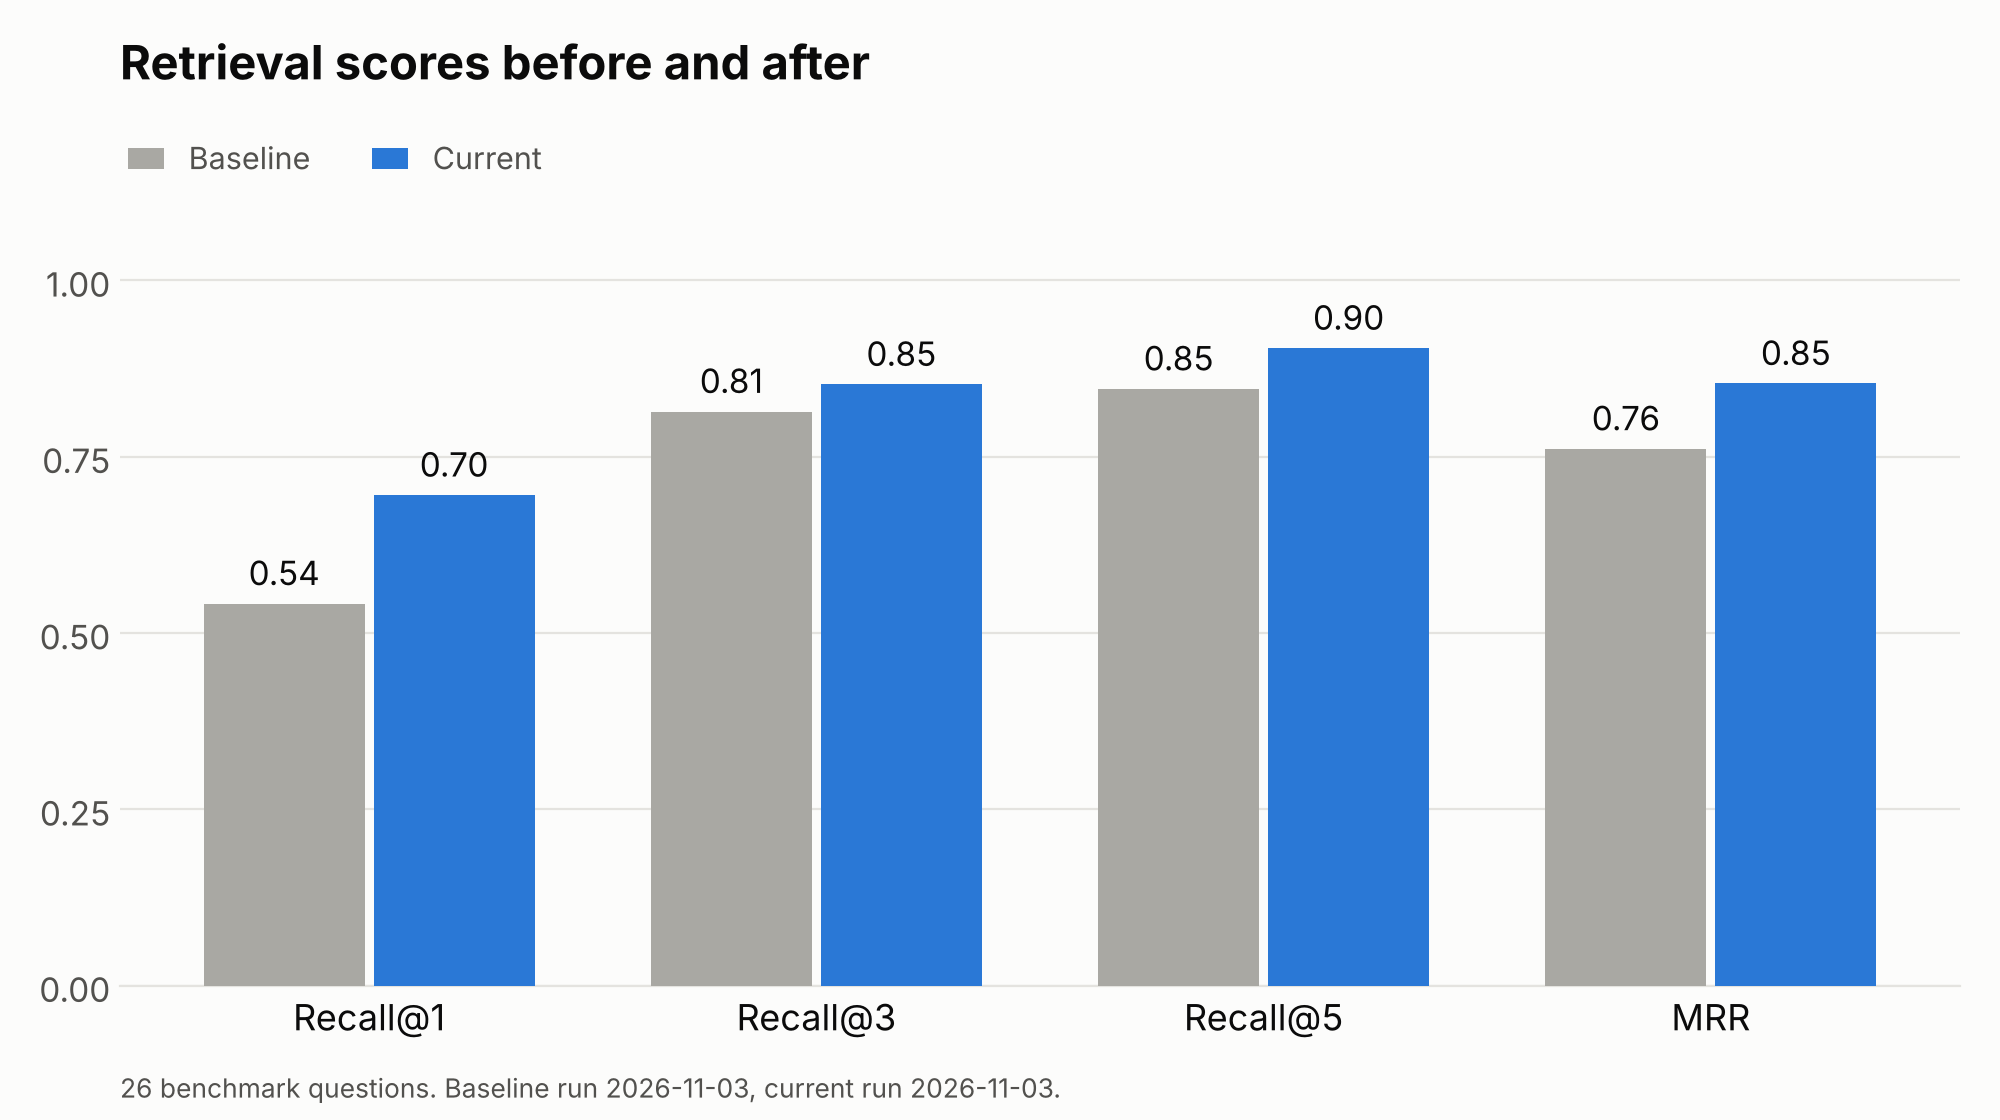
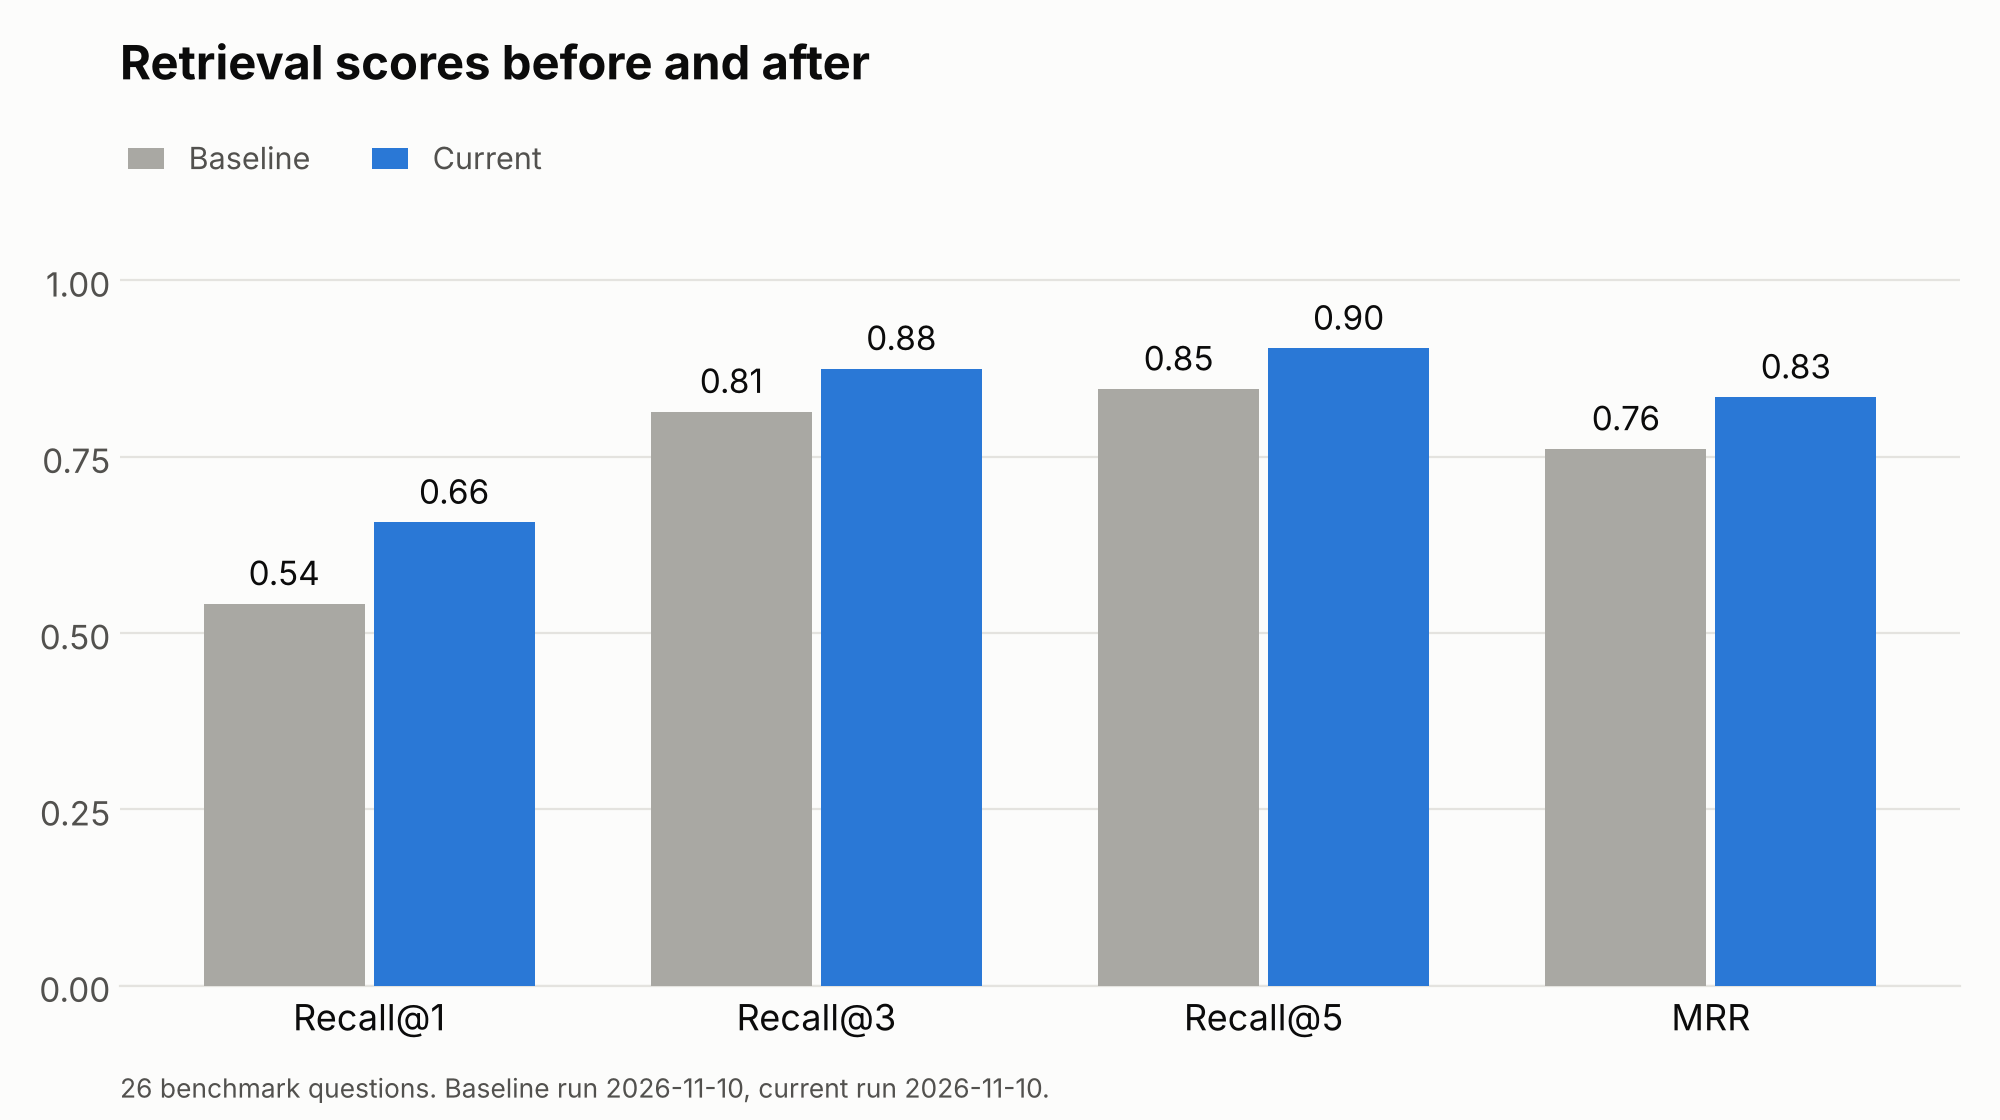
Record parser change and rerun retrieval eval
Chunks 5,940 to 6,379, garbled drops 116 to 47, references found in 50 of 50. MRR 0.854 to 0.835 and R@3 0.853 to 0.875, within the noise band; papers reaching the LLM unchanged.

diff --git a/README.md b/README.md
@@ -150,7 +150,7 @@ Baseline stack, per the Challenge Advisor's recommended tooling:
 
 | Stage | Choice |
 |---|---|
-| PDF parsing | `pypdf`, with `pypdfium2` for pages where pypdf loses the word spacing |
+| PDF parsing | `pypdfium2`, with `pypdf` for pages pypdfium2 cannot read (pypdf alone joins some words, e.g. "agentsdo") |
 | Chunking | 120-word chunks, 20-word overlap, near-duplicates removed |
 | Embeddings | `sentence-transformers/all-MiniLM-L6-v2`, centered, with a CSLS hub correction |
 | Vector store | `ChromaDB` |
@@ -166,14 +166,16 @@ The reasons for each retrieval choice, and the alternatives that were tested and
 
 ### Ranking and relevance (Nov, Issue #15)
 
-Same corpus, benchmark and embedding model as the Oct 27 baseline below (5,940 chunks after the parser fix).
+Same corpus, benchmark and embedding model as the Oct 27 baseline below. Nov 3 is the Issue #15
+retrieval work on 5,940 chunks. Nov 10 is the same retrieval on 6,379 chunks from the fixed parser
+(see "Parser" below).
 
-| Metric | Oct 27 baseline | Now |
-|---|---|---|
-| Recall@1 | 0.542 | 0.696 |
-| Recall@3 | 0.814 | 0.853 |
-| Recall@5 | 0.846 | 0.904 |
-| MRR | 0.761 | 0.854 |
+| Metric | Oct 27 baseline | Nov 3 | Nov 10 |
+|---|---|---|---|
+| Recall@1 | 0.542 | 0.696 | 0.657 |
+| Recall@3 | 0.814 | 0.853 | 0.875 |
+| Recall@5 | 0.846 | 0.904 | 0.904 |
+| MRR | 0.761 | 0.854 | 0.835 |
 
 ![Retrieval scores before and after](docs/figures/before_after.png)
 
@@ -186,11 +188,17 @@ What changed:
   prompts). It improves both halves of the benchmark, needs no new model and adds no query time.
 - **More papers reach the LLM.** `summarize.py` now sends 8 chunks with at most 2 per paper. On
   multi-paper questions, the share of relevant papers in the LLM's context went from 0.278 to 0.625.
-- **Parser fallback.** G-CARL (2608.20331v1) now yields 49 chunks instead of 25.
+- **Parser.** pypdfium2 is now the primary extractor. pypdf joined words on ordinary pages
+  ("agentsdo", "Evenautoresearch") too sparsely for the garbled-page check to catch, and those
+  passages reached the UI and the LLM. Line-break hyphens now keep real compounds ("real-world")
+  and rejoin split words ("learning"). The reference list is found in all 50 papers (5 were
+  missed before, so their bibliographies were being indexed). G-CARL (2608.20331v1) yields 58
+  chunks, up from 25 on Oct 27. Retrieval moves within the noise band described in
+  `docs/eval/retrieval_tuning_nov.md`; the papers that reach the LLM do not change.
 - **"Not covered" handling.** 13 questions the corpus cannot answer are in
   `data/benchmark/out_of_scope.jsonl`. No retrieval score separates them cleanly from real
-  questions, so a conservative floor stops the obvious ones (2 of 13, no in-scope question
-  affected) and the prompt handles the rest.
+  questions, so a conservative floor stops the obvious ones (3 of 13 on the Nov 10 index, no
+  in-scope question affected) and the prompt handles the rest.
 - **Prompt v2** follows the answer pattern in the advisor's sample-prompts document: answer,
   evidence per paper, limitations, business implications, citations with author and date. It has
   not been scored yet (needs a Gemini key); `summarize.py --batch` runs v1 and v2 over the
@@ -250,7 +258,8 @@ python src/evaluate_retrieval.py --benchmark data/benchmark/smoke_questions.json
 python src/plot_eval.py --baseline-dir data/processed/eval_baseline   # redraws docs/figures/
 ```
 
-The parser fallback does not change the baseline scores; G-CARL was already found at rank 2.
+The Oct 27 baseline numbers come from the old parser. Rerunning these commands now gives the Nov 10
+column, because `parse_and_chunk.py` produces different chunks.
 
 Summary accuracy and business usefulness (1-5 rubrics) are not scored yet. That needs a Gemini key
 and `python src/summarize.py --batch data/benchmark/questions.jsonl`.

diff --git a/docs/eval/retrieval_tuning_nov.md b/docs/eval/retrieval_tuning_nov.md
@@ -13,7 +13,10 @@ baseline (`all-MiniLM-L6-v2`).
 | | Recall@1 | Recall@3 | Recall@5 | MRR |
 |---|---|---|---|---|
 | Oct 27 baseline | 0.542 | 0.814 | 0.846 | 0.761 |
-| Now | 0.696 | 0.853 | 0.904 | 0.854 |
+| Nov 3 (Issue #15) | 0.696 | 0.853 | 0.904 | 0.854 |
+| Nov 10 (same retrieval, fixed parser) | 0.657 | 0.875 | 0.904 | 0.835 |
+
+The Nov 10 row is explained in "Parser change, Nov 10" at the end of this file.
 
 Relevant papers that actually reach the LLM in the passages it is given:
 
@@ -256,6 +259,52 @@ If the team agrees, the clean way to apply them is a `questions_v2.jsonl` with a
 | Business wording vs technical text (q08 and q20 still rank the right paper 2nd) | a near-miss paper ranks first | query rewriting: have the LLM turn the question into technical search terms before retrieval. Needs a key to test. |
 | Some reference lists survive parsing (EvoRouter, 2610.35690v1, pages 9 to 10 are kept as "appendix") | citation-only chunks show up in results | tighten `remove_back_matter()` in `parse_and_chunk.py`; not part of this change |
 | 26 questions is a small benchmark | differences under ~0.03 MRR are noise | grow it with the questions from user testing (Issue #17) |
+
+## Parser change, Nov 10
+
+The answer page showed passages with words run together ("agentsdo", "Evenautoresearch"). They came
+from pypdf, which drops the space between some words on ordinary pages. The Nov 3 fallback only
+caught whole garbled pages, so these passed through to the index, the UI and the LLM.
+
+What changed in `parse_and_chunk.py`:
+
+1. pypdfium2 is the primary extractor; pypdf is used only when pypdfium2 is missing or returns an
+   empty or garbled page (0 pages on this corpus).
+2. Line-break hyphens are decided per paper: "learn-ing" becomes "learning", "real-world" keeps its
+   hyphen. Before, both extractors joined every one ("realworld" appeared 6 times in the index).
+3. The reference list is found by a "References" heading followed by a year within 8 lines,
+   instead of only searching after the first 30% of lines. Long appendices put the real heading
+   as early as 8% (2610.35715v1). 5 papers' bibliographies were being indexed; now 0 of 50.
+
+Effect on the parsed corpus:
+
+| | Oct 27 / Nov 3 parser | Nov 10 parser |
+|---|---|---|
+| Chunks | 5,940 | 6,379 |
+| Chunks dropped as garbled | 116 | 47 |
+| Papers with references not found | 5 | 0 |
+| Words an English word list flags as two joined words (per 10k) | 72.2 | 40.0 |
+
+Most of the remaining flags are real names (DeepSeek, HybridAgent, OpenCode), not parse errors.
+
+Effect on retrieval (same hub-corrected setup as Nov 3, rebuilt index):
+
+| | R@1 | R@3 | R@5 | MRR | MRR odd / even |
+|---|---|---|---|---|---|
+| Nov 3 parser | 0.696 | 0.853 | 0.904 | 0.854 | 0.923 / 0.785 |
+| Nov 10 extractor only | 0.657 | 0.875 | 0.904 | 0.835 | 0.923 / 0.746 |
+| Nov 10 extractor + references | 0.657 | 0.875 | 0.904 | 0.835 | 0.923 / 0.746 |
+
+- Two questions drop from rank 1 to 2 (q06 by 0.001 in score, q16 by 0.011), one rises from 2 to 1
+  (q20), and two multi-paper questions find another relevant paper in the top 3 (q21, q23).
+- The cause is chunk boundaries, not worse text: recovered words shift where every later chunk in
+  a paper starts. q06's best chunk is the same paragraph starting one sentence later.
+- The papers that reach the LLM do not change: single-paper 1.000, multi-paper 0.625.
+- The relevance floor catches 3 of 13 out-of-scope questions (was 2); the lowest in-scope
+  question is still above it (0.401).
+- By the rule used above (improve both halves, do not trade R@5 for R@1), this is not a retrieval
+  improvement. It is a text-correctness fix; the score change is inside the ~0.03 MRR noise band
+  and the reference-set sensitivity range (0.790 to 0.856).
 
 ## Reproduce
 
